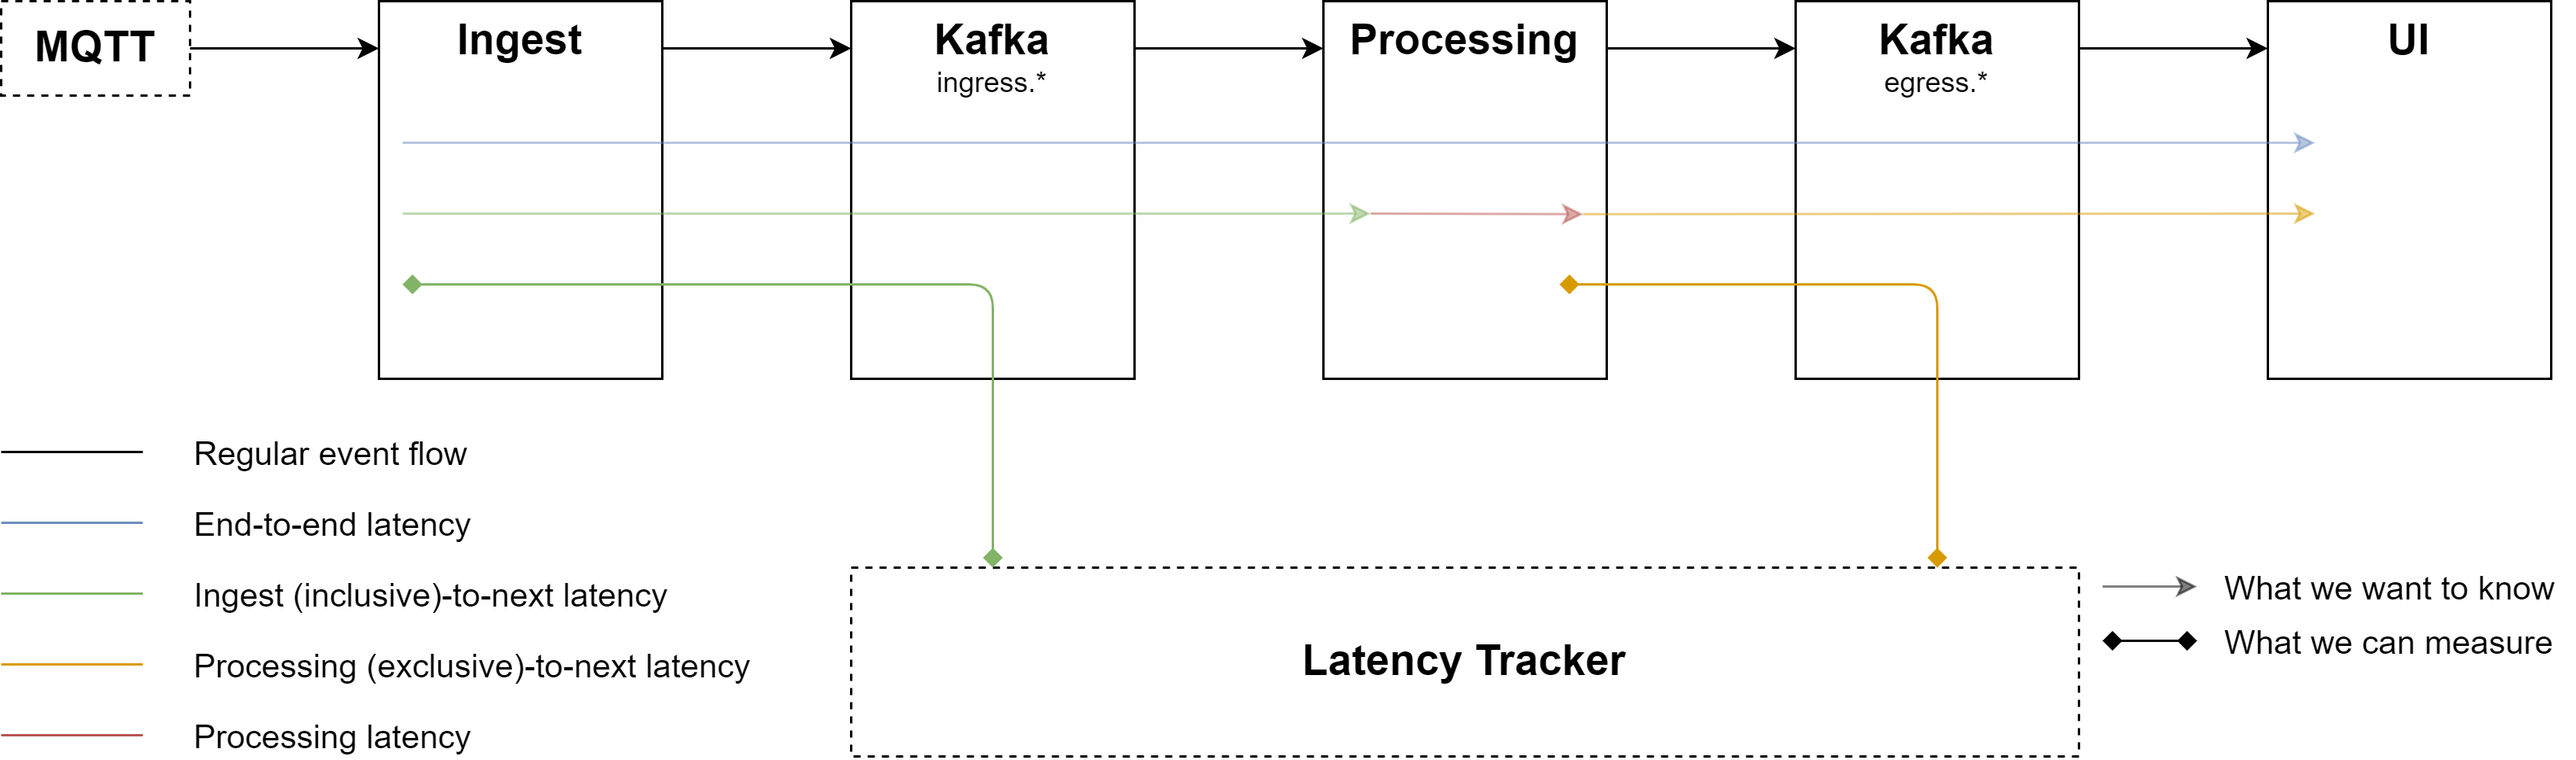
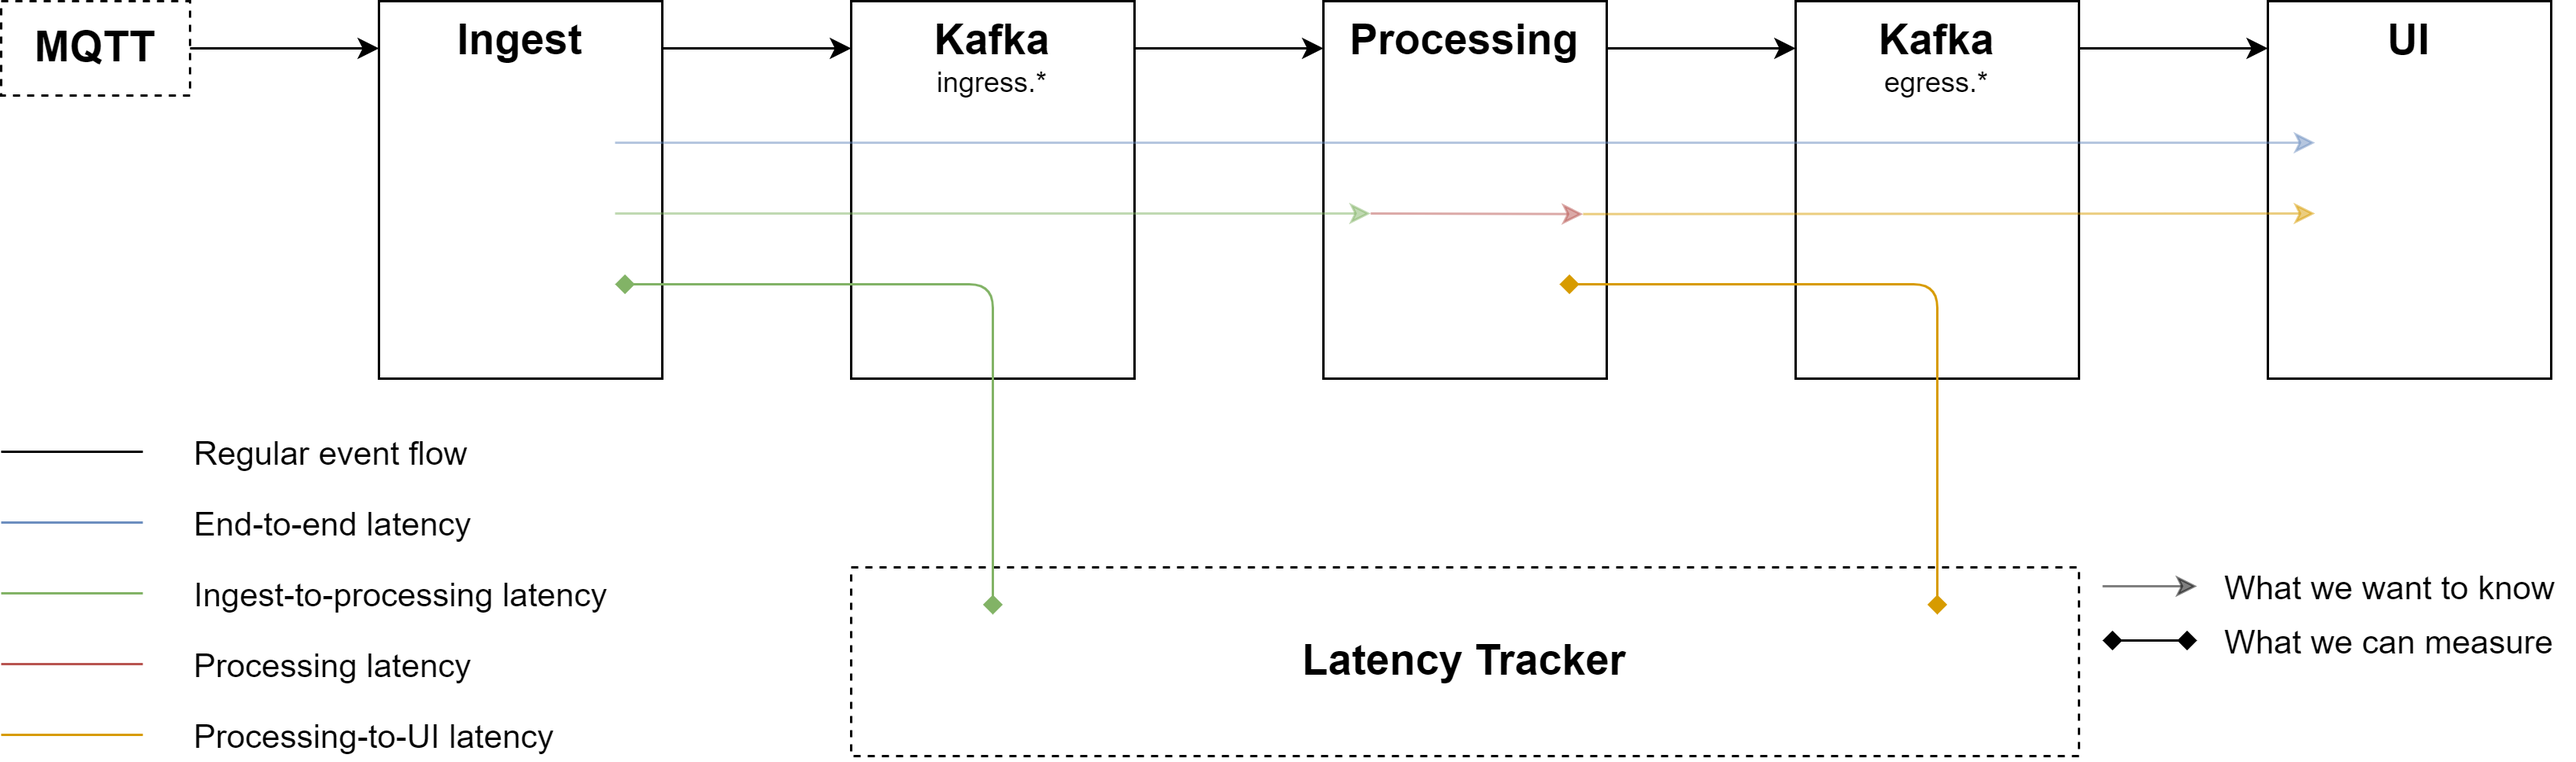
Change ingestion timestamping

diff --git a/app/ingest/ptinsight/ingest/ingestor.py b/app/ingest/ptinsight/ingest/ingestor.py
@@ -91,17 +91,9 @@ class MQTTIngestor(Ingestor):
             client.subscribe(topic)
 
     def _mqtt_on_message(self, client, userdata, msg: mqtt.MQTTMessage):
-        ingestion_timestamp = datetime.now(timezone.utc)
-
         if processed := self.processor.process(msg.topic, json.loads(msg.payload)):
             target_topic, event_timestamp, details = processed
-
-            event = Event()
-            event.event_timestamp.FromDatetime(event_timestamp or ingestion_timestamp)
-            event.ingestion_timestamp.FromDatetime(ingestion_timestamp)
-            event.details.Pack(details)
-
-            self._ingest(target_topic, event)
+            self._ingest(target_topic, _create_event(event_timestamp, details))
 
 
 class MQTTRecordingIngestor(Ingestor):
@@ -183,32 +175,26 @@ class MQTTRecordingIngestor(Ingestor):
             t.start()
 
     def _emit_latency_markers(self):
-        ingestion_timestamp = datetime.now(timezone.utc)
-
         markers = self.processor.generate_latency_markers()
         for target_topic, event_timestamp, details in markers:
             self._ingest(
-                target_topic,
-                self._create_event(ingestion_timestamp, event_timestamp, details),
+                target_topic, _create_event(event_timestamp, details),
             )
 
     def _process_and_ingest(self, topic: str, payload: str):
-        ingestion_timestamp = datetime.now(timezone.utc)
-
         if processed := self.processor.process(topic, json.loads(payload)):
             target_topic, event_timestamp, details = processed
             self._ingest(
-                target_topic,
-                self._create_event(ingestion_timestamp, event_timestamp, details),
+                target_topic, _create_event(event_timestamp, details),
             )
 
-    def _create_event(
-        self, ingestion_timestamp: datetime, event_timestamp: datetime, details: Message
-    ):
-        event = Event()
 
-        event.event_timestamp.FromDatetime(event_timestamp or ingestion_timestamp)
-        event.ingestion_timestamp.FromDatetime(ingestion_timestamp)
-        event.details.Pack(details)
+def _create_event(event_timestamp: datetime, details: Message):
+    event = Event()
 
-        return event
+    if event_timestamp:
+        event.event_timestamp.FromDatetime(event_timestamp)
+    event.ingestion_timestamp.GetCurrentTime()
+    event.details.Pack(details)
+
+    return event

diff --git a/app/ingest/ptinsight/ingest/processors.py b/app/ingest/ptinsight/ingest/processors.py
@@ -60,7 +60,6 @@ class MQTTProcessor(Processor, abc.ABC):
 class HSLRealtimeProcessor(MQTTProcessor):
     def __init__(self, config):
         super().__init__(config)
-        self.config = config
         self.event_types = config["event_types"].split(",")
         self.vehicle_types = config["vehicle_types"].split(",")
         self._latest_timestamp = None
@@ -68,8 +67,8 @@ class HSLRealtimeProcessor(MQTTProcessor):
 
         # Use "Point Nemo" as latency marker origin since we can assume no real events come from there
         origin = (-48.875, -123.393)
-        h3_resolution = int(self.config["h3_resolution"])
-        h3_max_k = int(self.config["h3_max_k"])
+        h3_resolution = int(config["h3_resolution"])
+        h3_max_k = int(config["h3_max_k"])
         self._latency_markers = HSLRealtimeLatencyMarkers(
             origin, h3_resolution, h3_max_k
         )

diff --git a/app/docs/Latency Tracking.md b/app/docs/Latency Tracking.md
@@ -6,21 +6,21 @@ Therefore, we use our custom in-band latency tracking system with latency marker
 
 ## Latency metrics
 
-A latency marker is identified by the geolocation. However, a single latency marker will occur twice in Kafka, once as ingress record created at the beginning of the ingest component, and once as egress record created at the end of the processing component. Both occurences are timestamped at their creation and their observation, so in total there are four timestamps for each latency marker. Since aggregating window operations can collapse multiple records into a single one, all latency markers must have different geolocations so they can be tracked indivividually from end to end at all times, retaining a one-to-one relationship between latency marker and aggregation result. For example, sequential geolocations can be generated by spiraling outwards from some starting location. The same applies to vehicle identifiers.
+A latency marker is identified by the geolocation. However, a single latency marker will occur twice, once as ingress record created in the ingest component, and once as egress record created in the processing component. Both occurences are timestamped at their creation and their arrival at the latency tracker, so in total there are four timestamps for each latency marker. Since aggregating window operations can collapse multiple records into a single one, all latency markers must have different geolocations so they can be tracked indivividually from end to end at all times, retaining a one-to-one relationship between latency marker and aggregation result. For example, sequential geolocations can be generated by spiraling outwards from some starting location. The same applies to vehicle identifiers.
 
 The figure below shows the the regular event flow, the latency metrics that we want to know denoted by the arrows, and the four timestamps we can measure denoted by the diamonds. We assume that the transport latency from Kafka to all downstream components is identical, e.g., the time from Kafka ingress topics to processing is the same as the time from Kafka ingress topics to the latency tracker. This allows us to calculate the following metrics based on the timestamps:
-* End-to-end (blue): arrival in system until display in UI
-* Ingest (inclusive)-to-processing (green): arrival in system until consumed by processing via Kafka
-* Processing (exclusive)-to-UI (orange): emitted by processing until consumed by UI via Kafka
-* Processing (red): arrival in processing until emission to Kafka
+* End-to-end (blue): arrival in system until arrival in UI
+* Ingest-to-processing (green): arrival in system until arrival in processing
+* Processing (red): arrival in processing until processing finished
+* Processing-to-UI (orange): processing finished until arrival in UI
 
 ![Latency Tracking](images/latency_tracking.png)
 
 Let us regard an example. We want to measure the latencies of the vehicle count job, which counts the number of vehicles per geocell in the last 30 seconds, evaluated every 5 seconds. Vehicle position events arrive every second but are deduplicated by vehicle, so only the last position of the vehicle in the window is regarded. Latency markers are emitted at a certain interval and take the same route as regular events.  
-The end-to-end latency is the time it takes the latency marker from its emission at the beginning of the ingest component as pseudo vehicle position through the processing component to its arrival at the UI component. Since events are aggregated by being counted per geocell, we can detect the arrival when we see the count for the marker's special geocell.  We cannot measure the arrival at the processing and UI components, but with the assumption of equal transport latencies, we can use the arrival at the latency tracker as subsitute.
-The ingest-to-processing latency is the time it takes the latency marker from its emission at the beginning of the ingest component to its arrival at the processing component.
-The processing-to-UI latency is the time it takes the latency marker from its emission at the end of the processing component to its arrival at the latency tracker, assuming the Kafka-UI and Kafka-Latency Tracker are identical.
+The end-to-end latency is the time it takes the latency marker from its emission in the ingest component as pseudo vehicle position through the processing component to its arrival at the UI component. Since events are aggregated by being counted per geocell, we can detect the arrival when we see the count for the marker's special geocell.  We cannot measure the arrival at the processing and UI components, but with the assumption of equal transport latencies, we can use the arrival at the latency tracker as subsitute.
+The ingest-to-processing latency is the time it takes the latency marker from its in the ingest component to its arrival at the processing component.
 The processing latency is the time the latency marker spends in the Flink cluster, including time spent on intra-cluster transport, windowing and aggregations.
+The processing-to-UI latency is the time it takes the latency marker from its emission in the processing component to its arrival at the latency tracker, assuming the Kafka-UI and Kafka-Latency Tracker are identical.
 
 
 ## Accuracy
